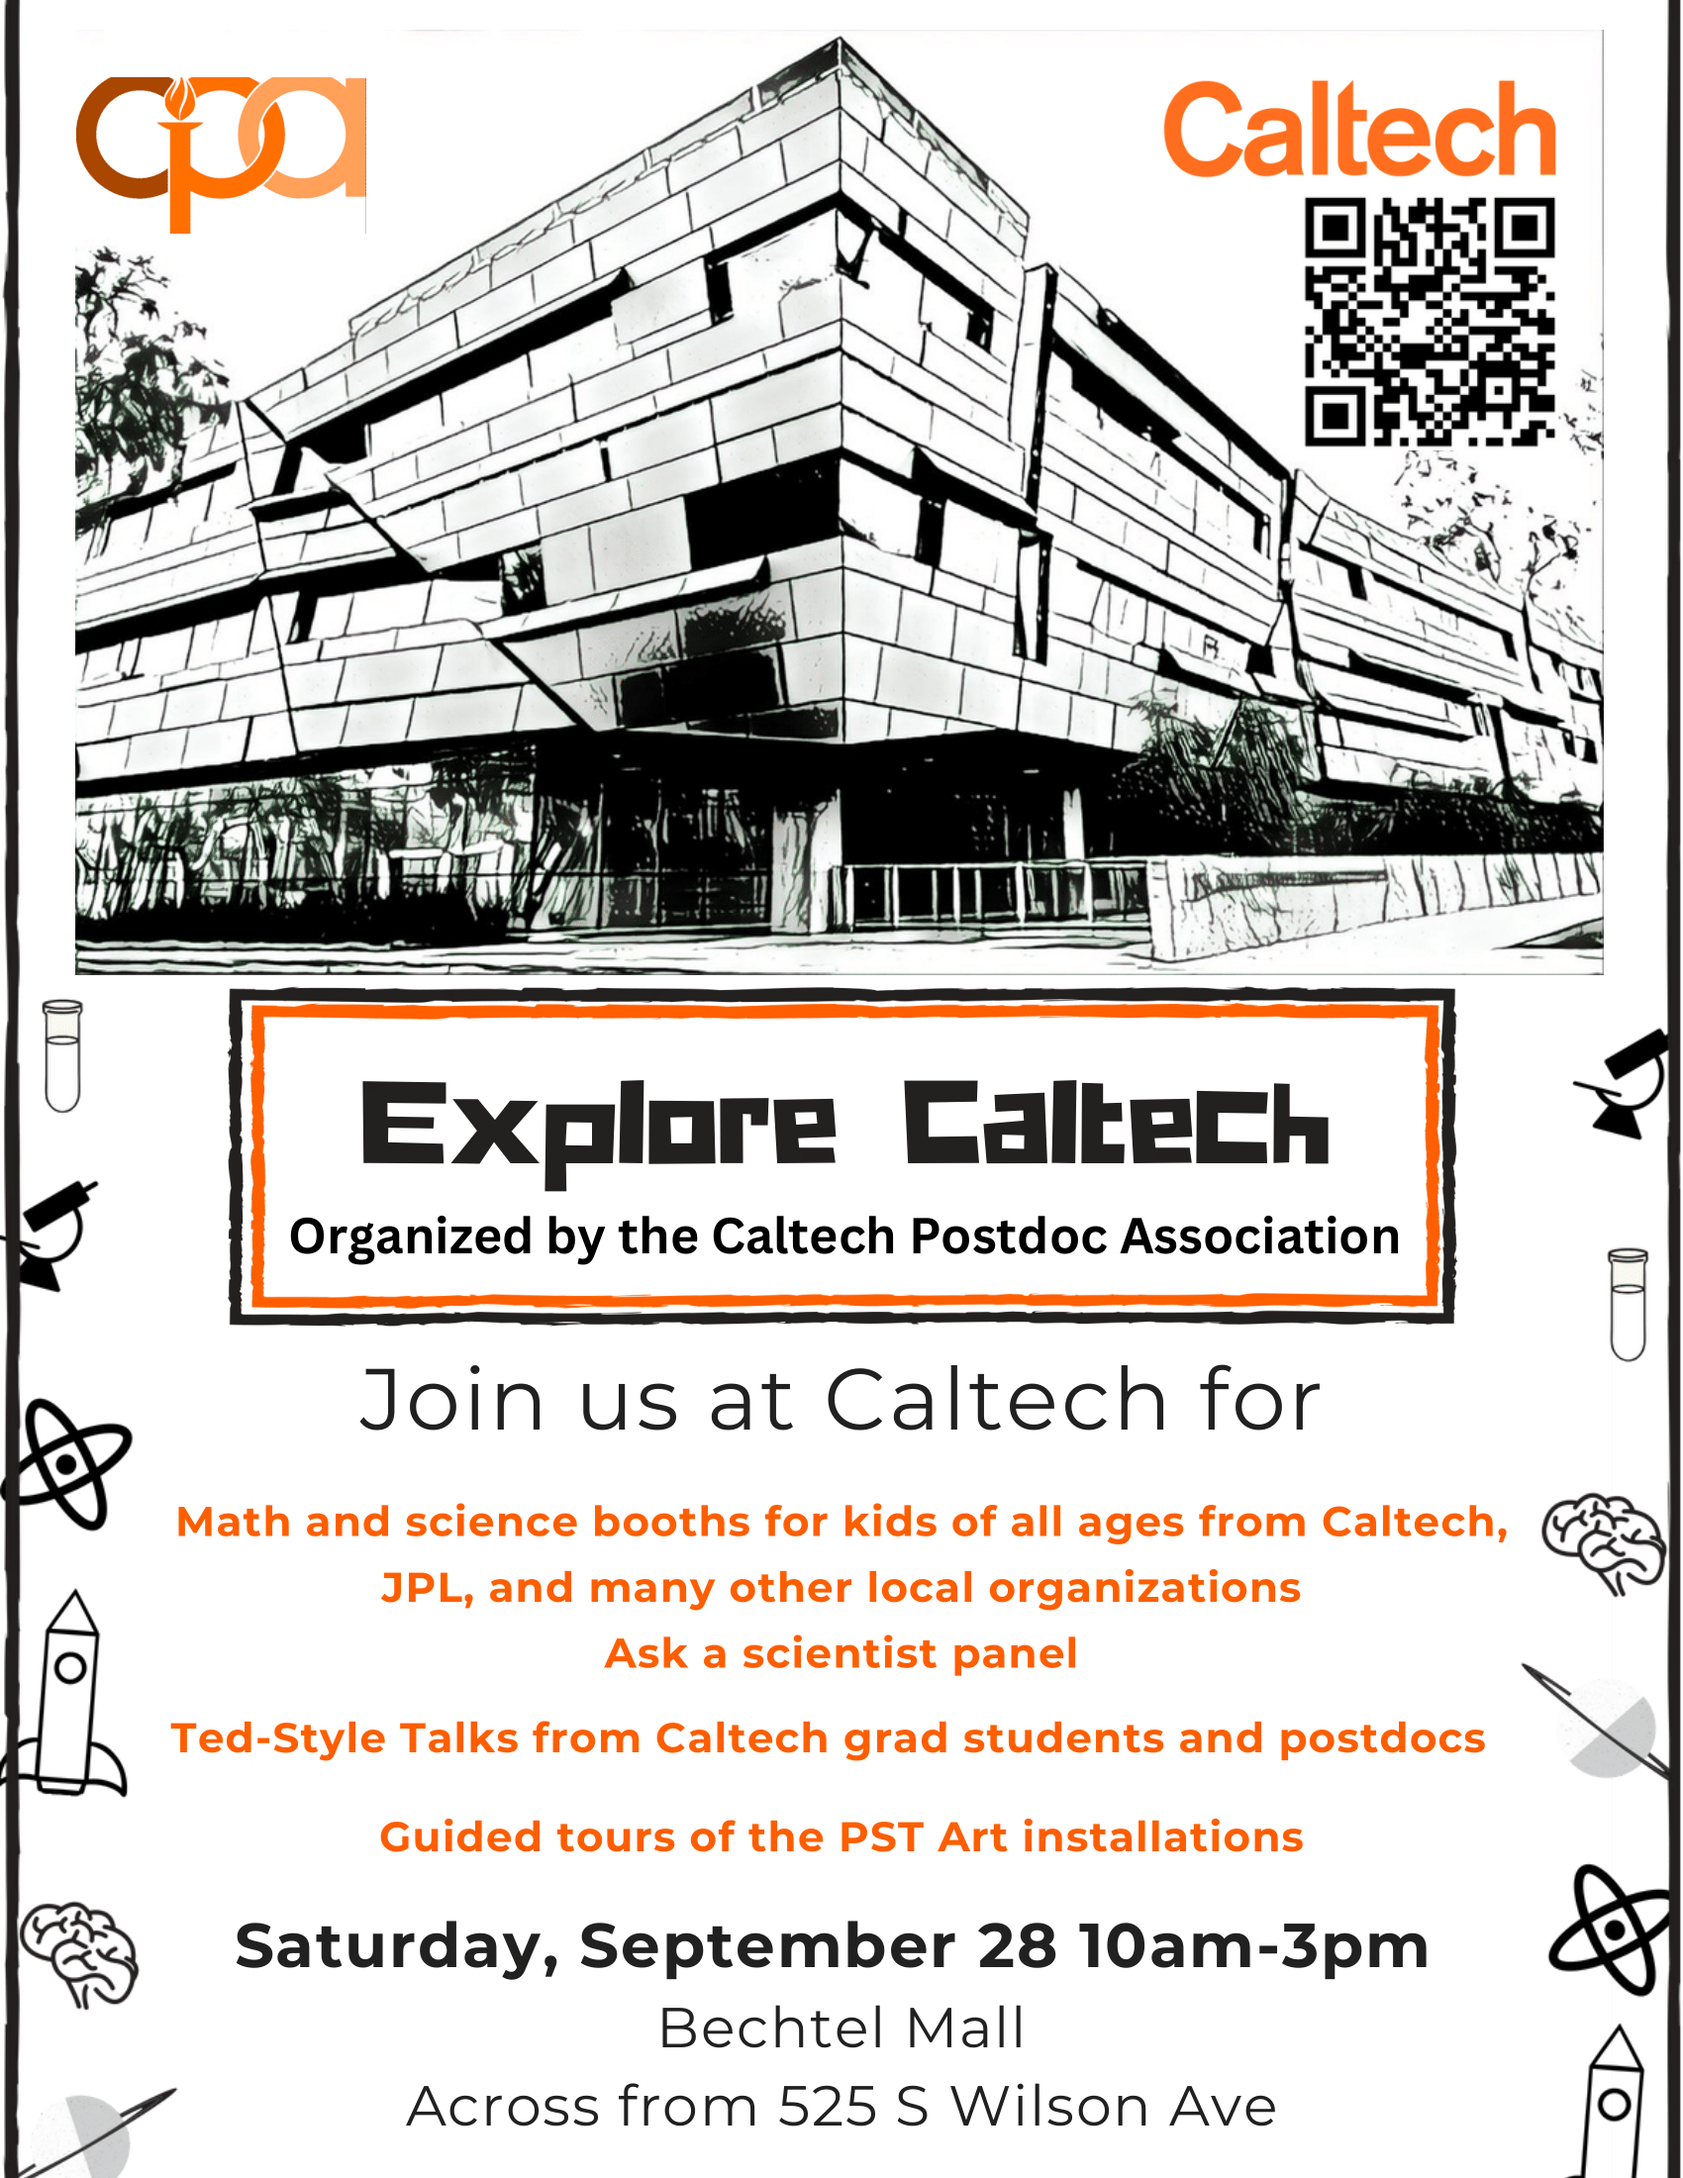
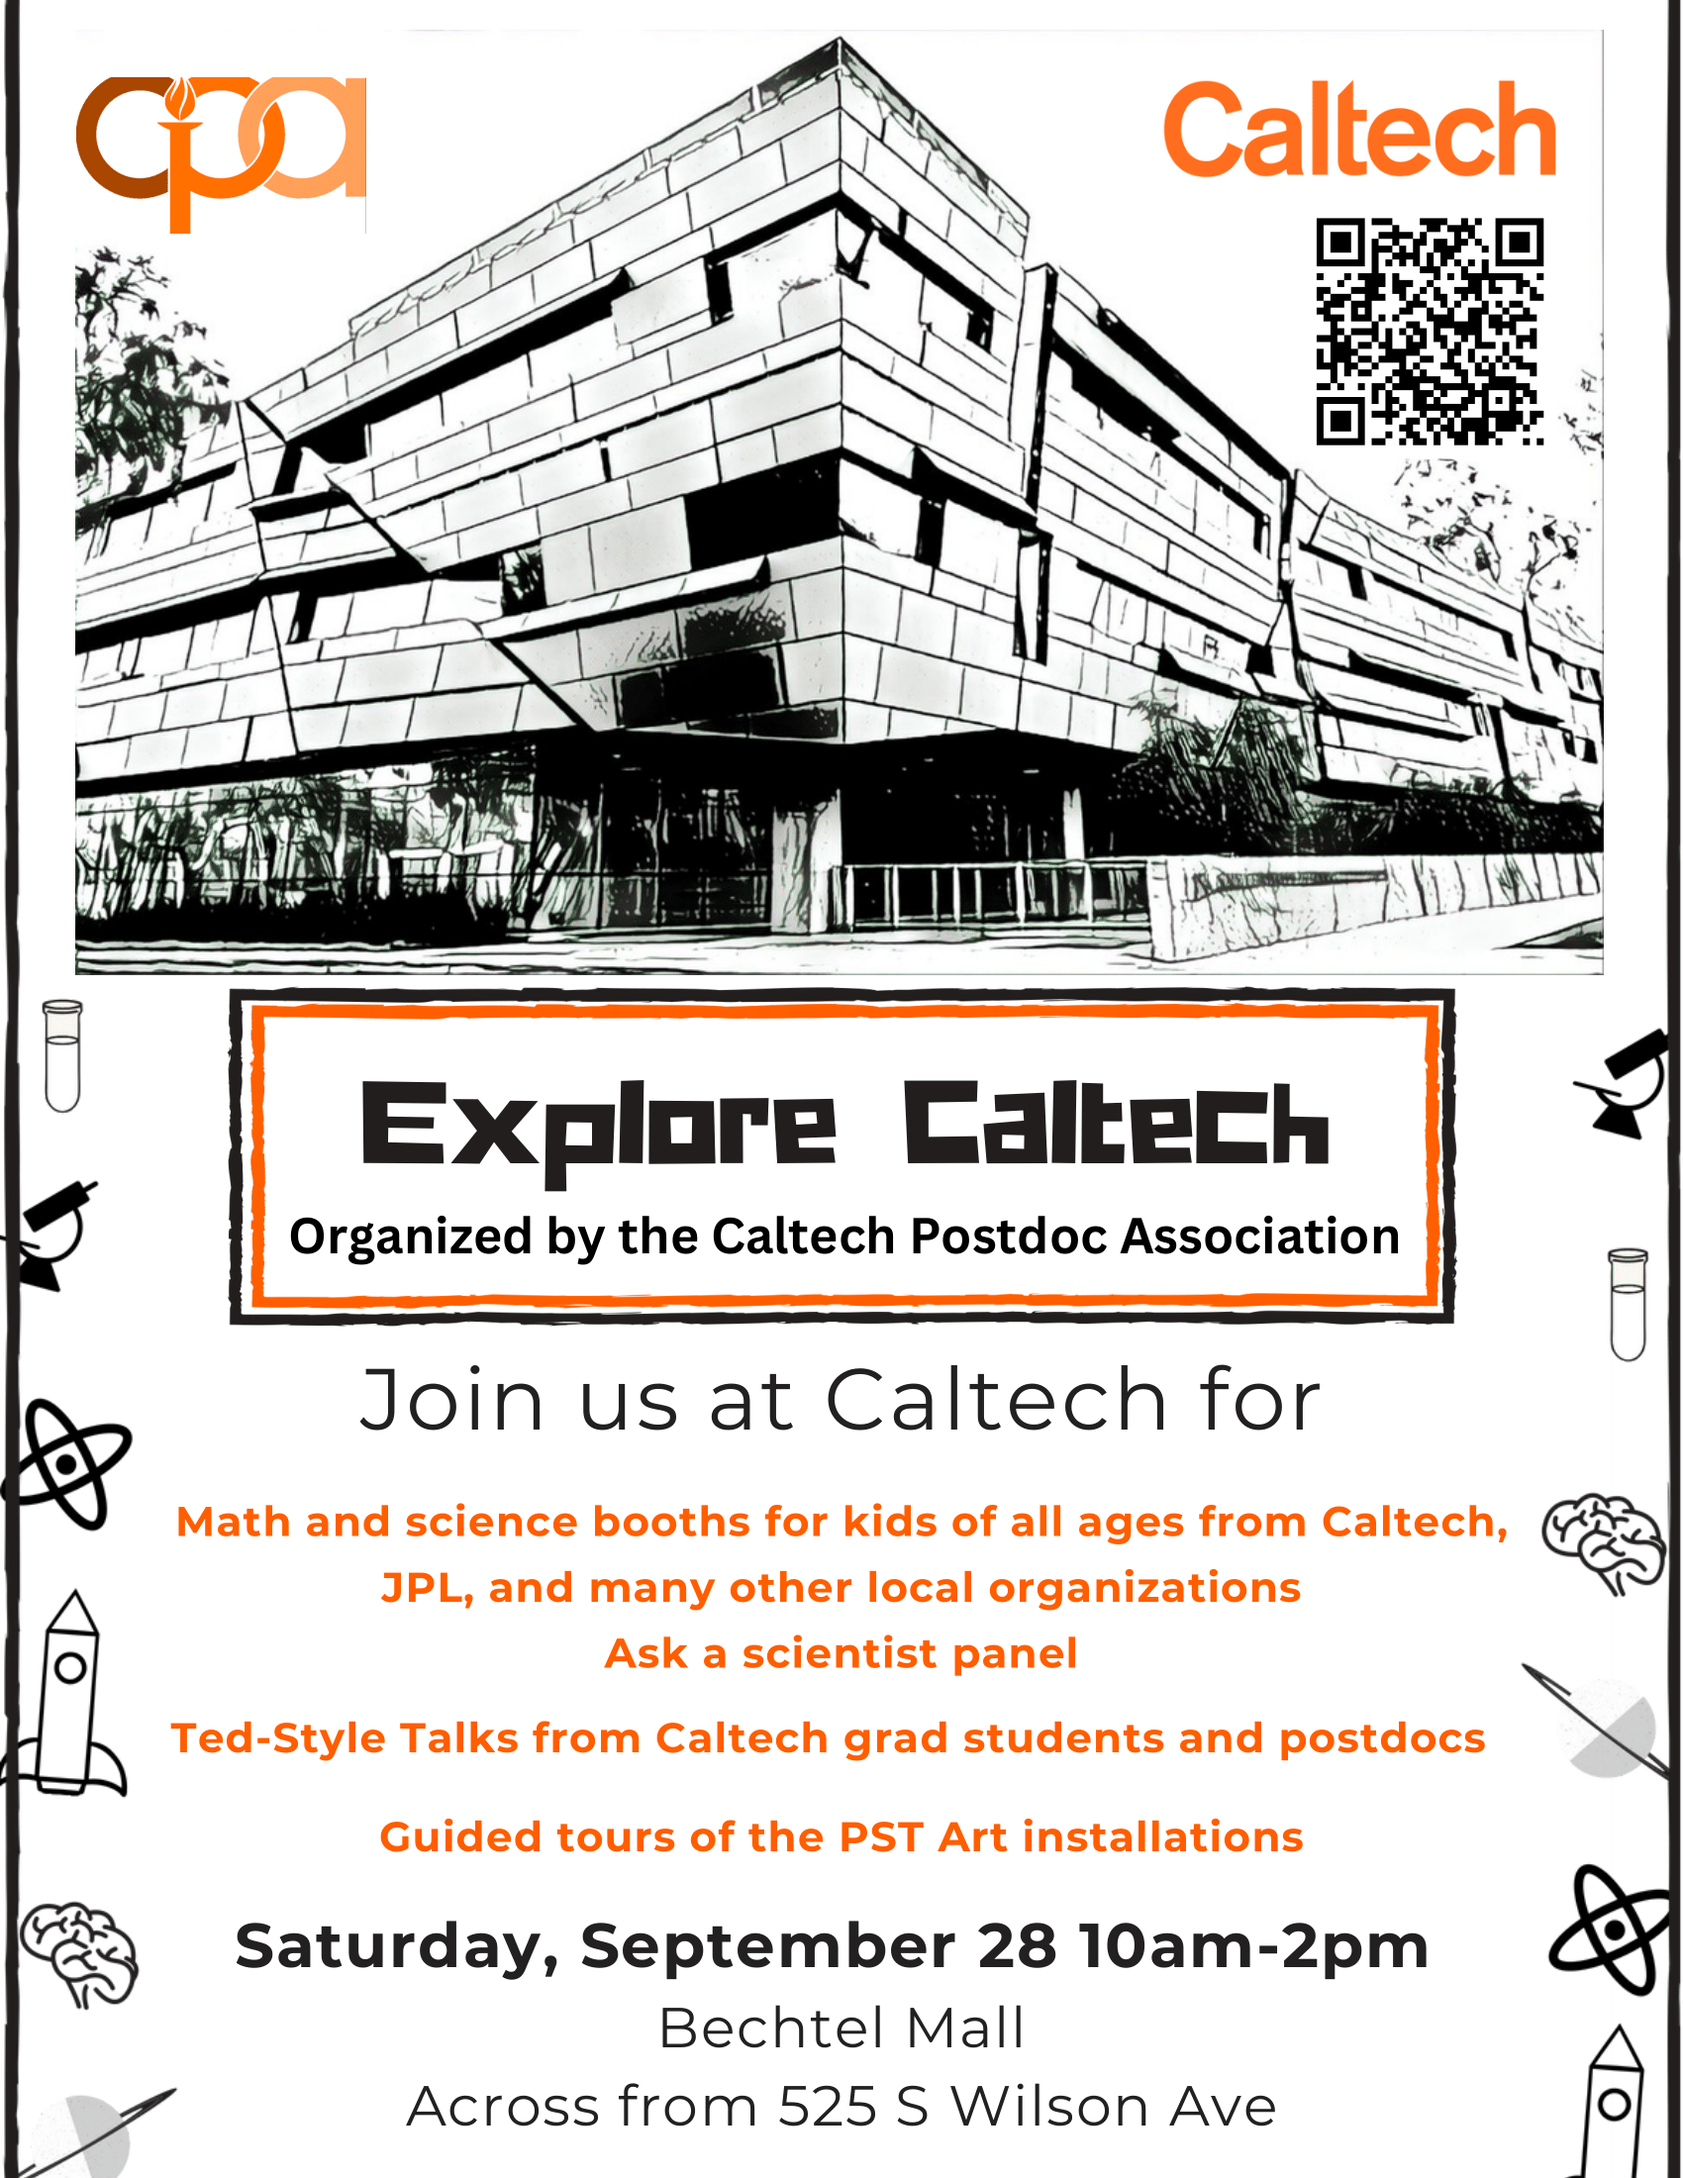
updates

Changed region(s): [[0.7482, 0.0927, 0.9353, 0.2164]]

diff --git a/index.html b/index.html
@@ -124,7 +124,7 @@
           <span class="home-text16">
             <span class="home-text17">DISCOVER THE WONDER OF SCIENCE</span>
             <br />
-            <span>Saturday, September 28, 2024, 10:00am to 3:00pm</span>
+            <span>Saturday, September 28, 2024, 10:00am to 2:00pm</span>
             <br />
             <span>
               At Bechtel Mall, Across from 525 S Wilson Ave
@@ -403,7 +403,7 @@
                      <br />
                      <span>
                        Event Time:<br />
-                       <span class="indent">Saturday, September 28, 2024, 10:00am to 3:00pm</span>
+                       <span class="indent">Saturday, September 28, 2024, 10:00am to 2:00pm</span>
                      </span>
                    </span>
                  </fragment>
